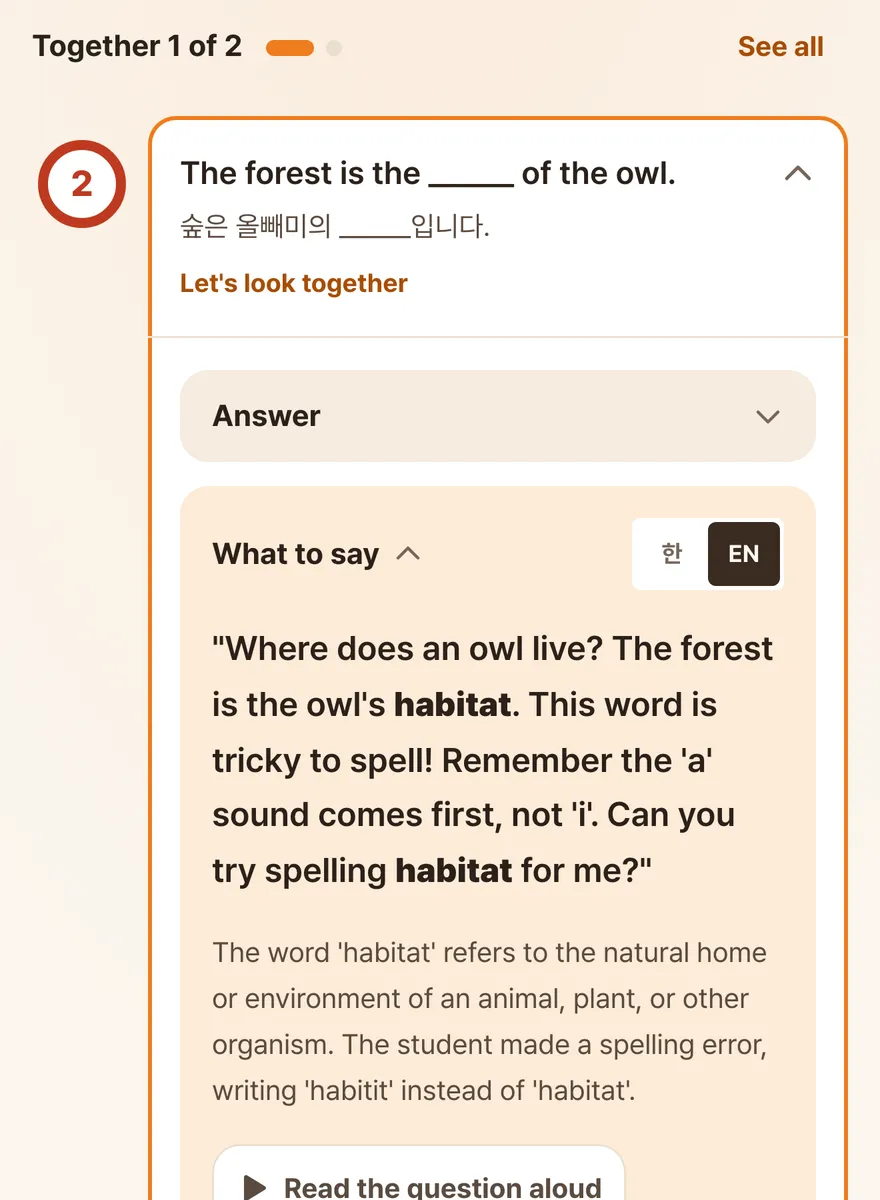
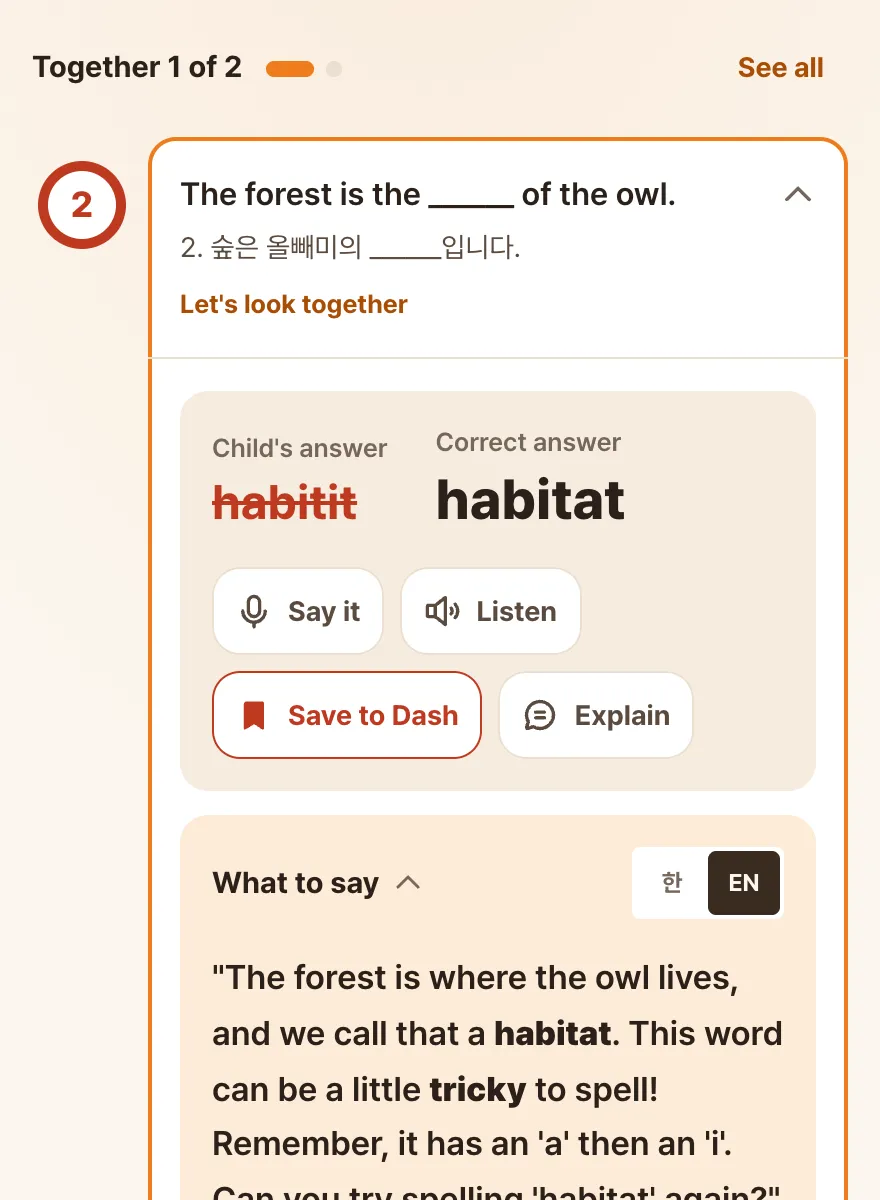
feat(landing): show the 1.5.4 question card in step 3
The parent landing tour's step 3 still showed the old card, with the
answer behind a collapsed row. Recaptured EN and KO from the new card
(answer, Say it, Listen, Explain shown) and moved the What to say pin
down to match.

Changed region(s): [[0.1534, 0.0308, 0.9818, 1.0], [0.0307, 0.0308, 0.2761, 0.2158], [0.8284, 0.0308, 0.9511, 0.0617]]

diff --git a/src/Landing.tsx b/src/Landing.tsx
@@ -87,7 +87,7 @@ export default function Home() {
         ],
         [
           { x: 96, y: 20, text: "틀린 문제는 '같이 볼 문제'로 하나씩 봐요." },
-          { x: 96, y: 56, text: '아이에게 할 말을 알려 줘요. 한국어와 영어로 바꿔 볼 수 있어요.' },
+          { x: 96, y: 75, text: '아이에게 할 말을 알려 줘요. 한국어와 영어로 바꿔 볼 수 있어요.' },
         ],
       ]
     : [
@@ -101,7 +101,7 @@ export default function Home() {
         ],
         [
           { x: 96, y: 20, text: "Misses become 'look together' questions, one at a time." },
-          { x: 96, y: 56, text: 'What to say to your child. Switch between Korean and English.' },
+          { x: 96, y: 75, text: 'What to say to your child. Switch between Korean and English.' },
         ],
       ];
   const tourSteps: TourStep[] = steps.map((s, i) => ({
